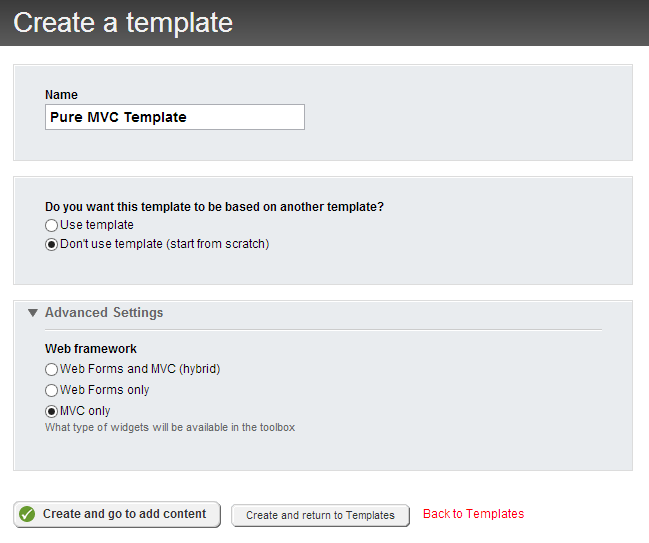
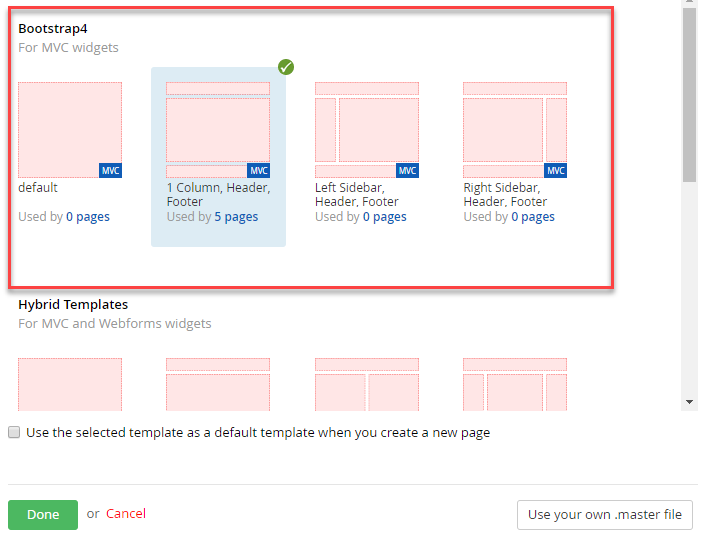
Update

diff --git a/MVC in Sitefinity/readme.md b/MVC in Sitefinity/readme.md
@@ -5,7 +5,7 @@ In addition to using traditional Web Form User Controls (ascx),
 developers can also take advantage of Sitefinity's support for MVC to
 create widgets. By using the familiar Model-View-Controller pattern,
 developers can quickly create widgets with full control over the markup,
-resulting in simpler, testable code.
+resulting in simpler, testable code.  **This is now the preferred way in Sitefinity going forward!**
 
 Choosing MVC or WebForms
 ------------------------
@@ -16,9 +16,10 @@ either (or both) platforms to create widgets that best suit their needs.
 
 Progress has made it clear that MVC development in Sitefinity is the
 choice going forward even though Web forms will continue to be supported
-for a long time to come.
+for a "while" :)
 
-### Choosing MVC
+Choosing MVC
+------------
 
 Using MVC for creating widgets offers the following advantages:
 
@@ -48,12 +49,13 @@ It is also important to keep in mind some of the disadvantages of using MVC:
 
 -   You cannot leverage existing ASP.NET WebForm controls (such as Telerik RadControls)
 
-### Choosing WebForms
+Choosing WebForms
+-----------------
 
 Widgets developed using traditional WebForm User Controls offer the following advantages:
 
 -   Familiar and mature platform with many existing controls and
-    off-the-shelf components
+    off-the-shelf components from so many vendors
 
 -   Easily port in existing WebForm applications by moving logic and
     markup to User Controls
@@ -75,11 +77,12 @@ However, choosing WebForms over MVC also exposes the following disadvantages:
 -   Less control over HTML output, as this is often defined by the
     controls being used
 
-### You can use Both
+You can use Both
+----------------
 
 The implementation of MVC within Sitefinity allows developers to
 leverage both options simultaneously on a page, mixing traditional
-WebForm widgets with MVC.
+WebForm widgets with MVC.  This is called the "HYBRID" way.
 
 Sitefinity MVC Modes
 --------------------
@@ -88,7 +91,8 @@ Sitefinity MVC can operate in one of three modes: Classic, Pure, and
 Hybrid. These three options are what allow Sitefinity to "mix and match"
 between WebForms and MVC.
 
-### Classic MVC Mode
+Classic MVC Mode
+----------------
 
 Classic MVC is simply the traditional ASP.NET MVC implementation. It is
 most useful for porting an existing application into a website to
@@ -100,7 +104,8 @@ so you are not able to manage content on pages or controllers using the
 Sitefinity Administration. Instead, the MVC application responds to
 requests using the traditional ASP.NET MVC routing and architecture.
 
-### Pure MVC Mode
+Pure MVC Mode (PREFERRED)
+------------------------
 
 If you are using MVC widgets exclusively, and do not wish to use or
 display the existing WebForm widgets, you can enable Sitefinity to work
@@ -114,8 +119,7 @@ to host multiple MVC widgets. A Sitefinity page is able to route the
 page request to each widget on the page, allowing each to render its
 markup individually to makeup the page contents.
 
-To enable MVC Pure mode, create a new Page Template, and assign the MVC
-only option for Web framework under Advanced Settings.
+To enable MVC Pure mode, use any of the Bootstrap based templates to be the base of your pages.
 
 ![](../media/image56.png)
 
@@ -131,12 +135,11 @@ Pure mode, you will see that the markup is free of the traditional
 WebForms content such as ViewState, and instead renders a light, clean
 markup.
 
-### Hybrid MVC Mode
+Hybrid MVC Mode
+---------------
 
-This mode is the default mode for Sitefinity Page Templates. Choosing
-this mode displays both the traditional WebForm toolbox items, as well
-as MVC widgets when editing a page, allowing you to mix and match widget
-types.
+Choosing this mode displays both the traditional WebForm toolbox items, as well
+as MVC widgets when editing a page, allowing you to mix and match widget types.
 
 ![](../media/image58.png)
 
@@ -146,7 +149,8 @@ widget to control its own rendered markup.
 
 ![](../media/image59.png)
 
-### Input Forms with Hybrid Mode
+Input Forms with Hybrid Mode
+----------------------------
 
 One important note to keep in mind: WebForms require that only a single
 FORM tag be present on the page. As a result, if you wish to create an
@@ -155,7 +159,8 @@ special Html helper \@Html.BeginFormSitefinity instead of the
 traditional MVC \@Html.BeginForm to ensure that your form posts
 correctly.
 
-### Choosing an MVC Mode
+Choosing an MVC Mode
+--------------------
 
 The choice of Sitefinity MVC mode depends on how MVC will be used in the
 website application, and can all be used simultaneously in different
@@ -183,42 +188,44 @@ the Sitefinity solution, then registering the Controller as a widget.
 
 To demonstrate this, we'll create a sample widget by first declaring a
 sample model. Add a new class file MyMvcWidgetModel.cs to the *Models*
-folder of the Sitefinity project with the following code:
+folder of the Sitefinity project Mvc folder with the following code:
 
+```
 public class MyMVCWidgetModel
-
 {
 
-/// \<summary\>
+    /// <summary>
 
-/// Gets or sets the message.
+    /// Gets or sets the message.
 
-/// \</summary\>
+    /// \<summary>
 
-public string Message { get; set; }
+    public string Message { get; set; }
 
 }
+```
 
 Next, add another class file MyMvcWidgetController.cs to the
 *Controllers* folder with the following code:
 
+```
 public class MyMVCWidgetController : Controller
-
 {
 
-public ActionResult Index()
+    public ActionResult Index()
 
-{
+    {
 
-var model = new MyMVCWidgetModel();
+        var model = new MyMVCWidgetModel();
 
-model.Message = \"Hello, World!\";
+        model.Message = "Hello, World!";
 
-return View(\"Default\", model);
+        return View("Default", model);
+
+    }
 
 }
-
-}
+```
 
 As you can see, the Controller is a traditional MVC controller and
 indeed even inherits from the standard *System.Web.Mvc.Controller* base
@@ -234,19 +241,22 @@ that it can find the desired view by name automatically.
 Create a folder under the Views folder named MyMvcWidget, and add the
 file Default.cshtml with the following markup:
 
-\@model SitefinityWebApp.Mvc.Models.MyMVCWidgetModel
+```
+@model SitefinityWebApp.Mvc.Models.MyMVCWidgetModel
 
-\<h1\>
+<h1>
 
-\@Html.Raw(Model.Message)
+    @Html.Raw(Model.Message)
 
-\</h1\>
+</h1>
+```
 
 With these three components (Controller, Model, View) in place, we can
 now register the controller as a widget for use in the Sitefinity page
 toolbox.
 
-### Registering the Widget in the Toolbox
+Registering the Widget in the Toolbox
+--------------------------------------
 
 The only step required here is to decorate the Controller class with the
 *ControllerToolboxItem* attribute, which contains parameters for naming
@@ -254,10 +264,7 @@ and placing the widget. The attribute below will give the widget the
 title of "My MVC Widget", placing it in the Toolbox section named
 "MvcWidgets".
 
-\[ControllerToolboxItem(Name = \"MyMVCWidget\", Title = \"My MVC
-Widget\",
-
-SectionName = \"Mvc Widgets\")\]
+[ControllerToolboxItem(Name = "MyMVCWidget", Title = "My MVC Widget", SectionName = "Mvc Widgets")]
 
 Save your changes and build your solution. Sitefinity will now
 automatically discover this widget through the attribute, and place it
@@ -266,15 +273,17 @@ it and add it to the toolbox.
 
 ![](../media/image60.png)
 
-### Creating a Control Designer
+Creating a Control Designer
+---------------------------
 
 Sitefinity MVC widgets can have control designers just like standard
 WebForm User Control widgets. The process for creating and registering
 designers is also done via attributes.
 
-### Sitefinity Thunder MVC Widget Template
+Sitefinity Thunder MVC Widget Template
+---------------------------------------
 
-**Note: Thunder is not available in Visual studio 2017 and newer
+**Note: Thunder is not available in Visual studio 2017 or 2019 and newer
 versions of Visual Studio. Because Progress is concentrating on MVC and
 Thunder is 90% all about Web Forms, it is not expected that Thunder will
 have a new revision. Going forward you will need to learn the Sitefinity
@@ -309,4 +318,4 @@ Existing Widget template.
 
 Alternatively, you can now leverage the MVC platform to create widget
 designers more intuitively, using a new Sitefinity module called
-Feather.
+Feather using Angular.
